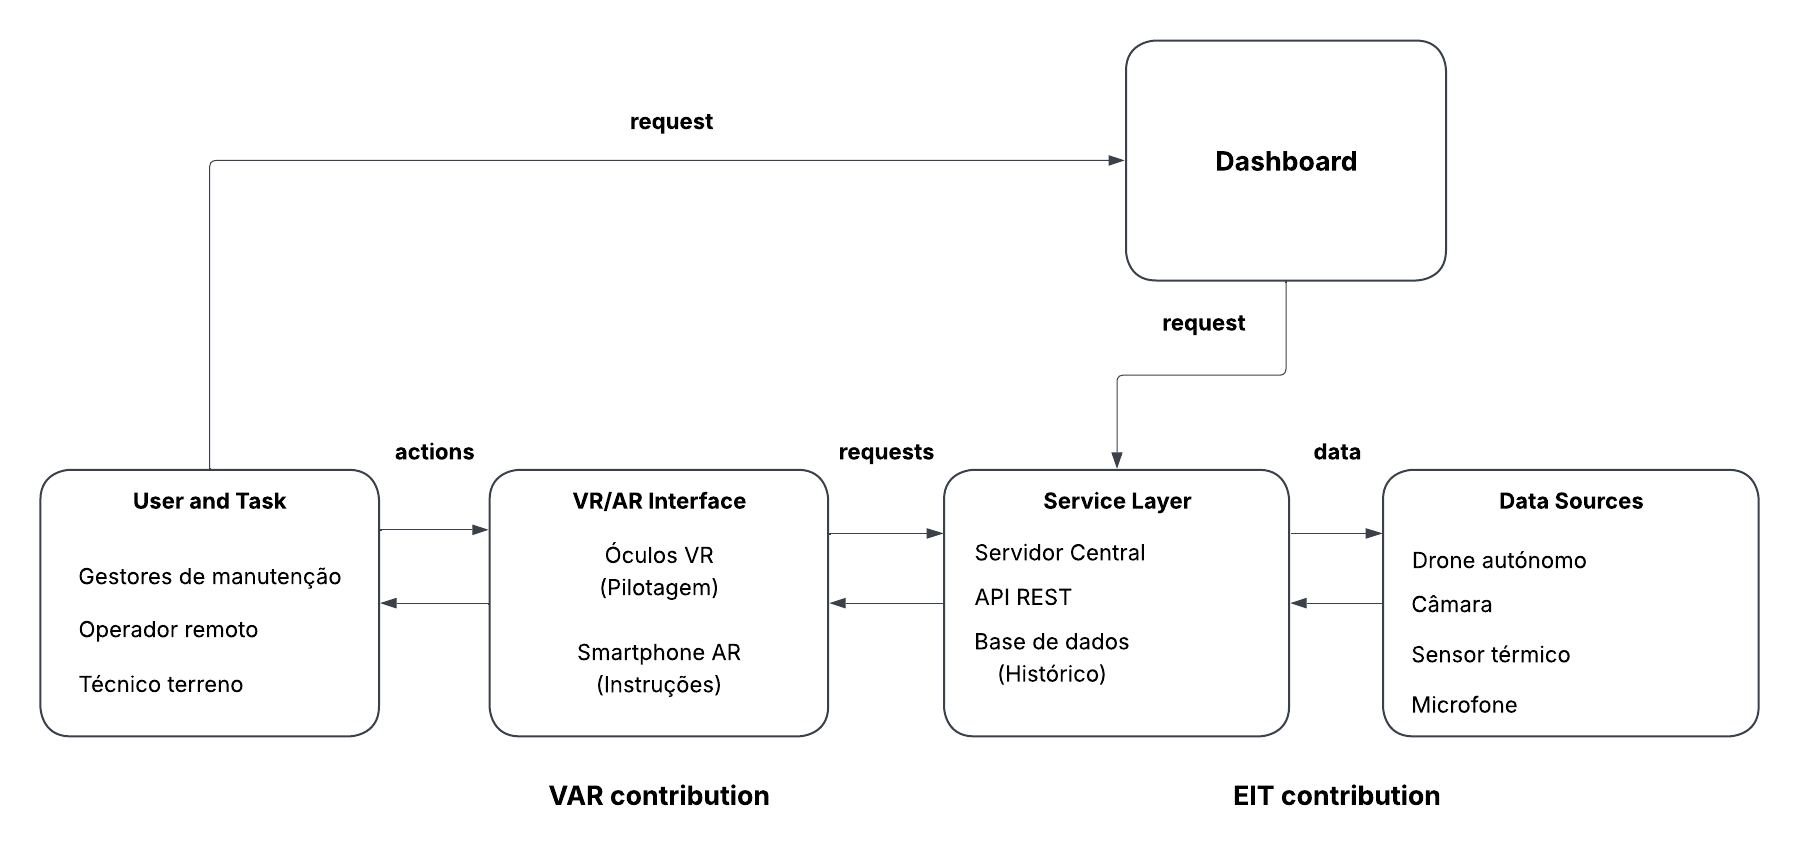
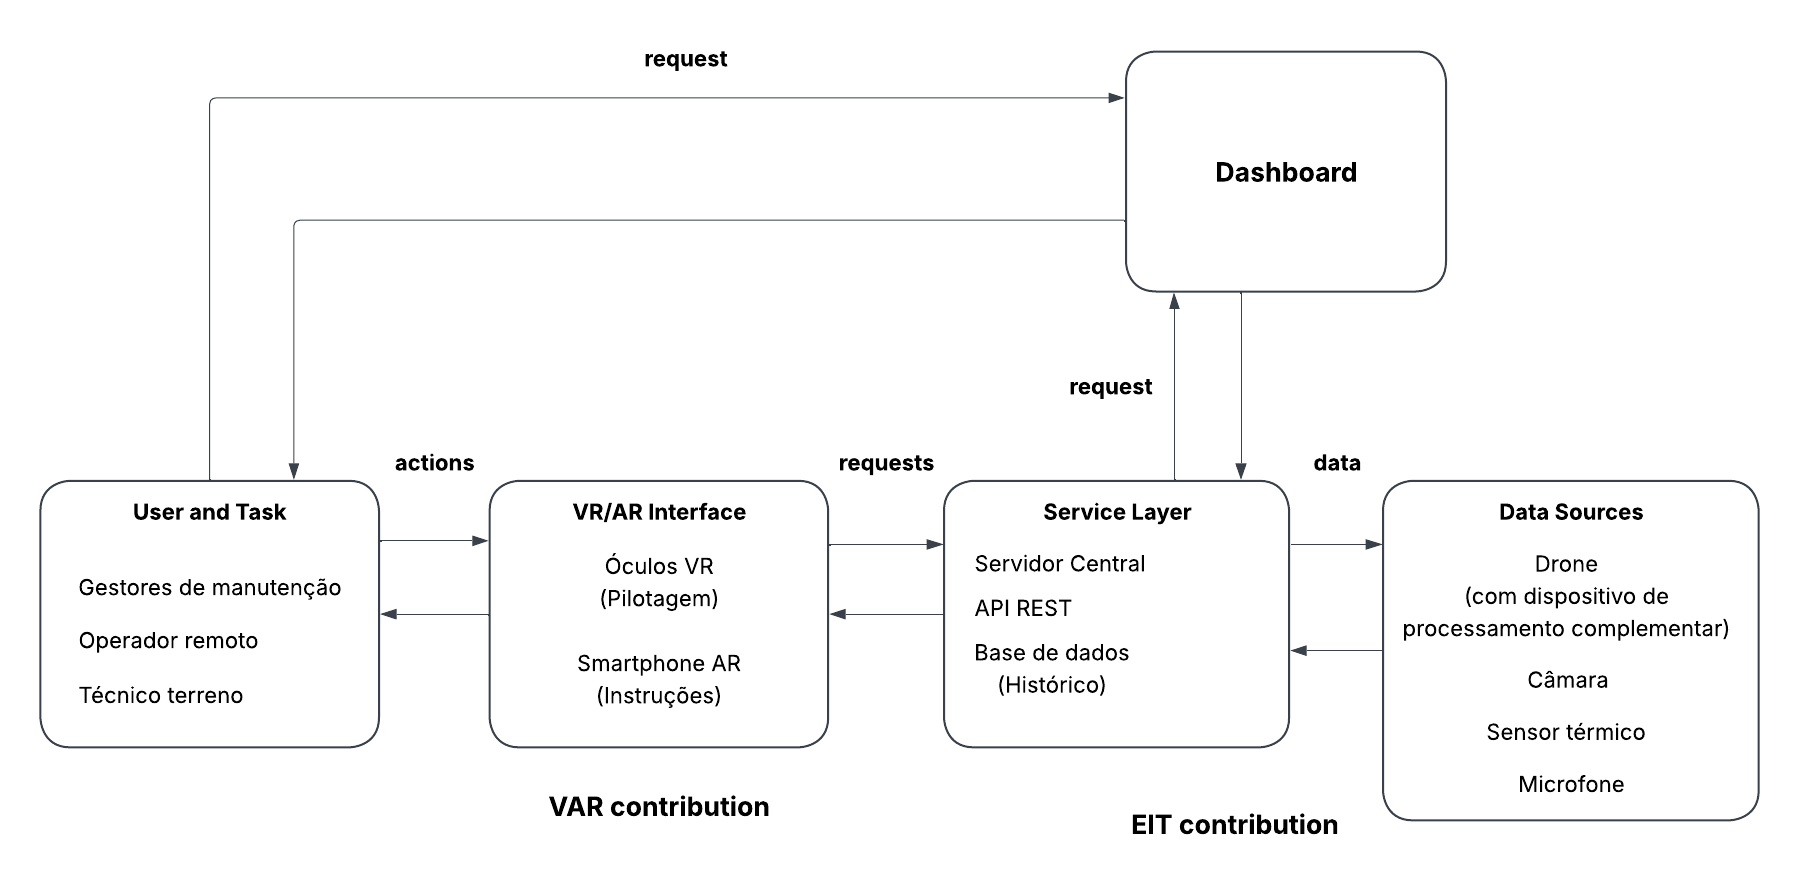
Update from inscrive.io

diff --git a/main.tex b/main.tex
@@ -1,7 +1,3 @@
-% Course adaptation based on IEEEtran bare_conf.tex (Michael Shell).
-% IEEEtran.cls and IEEEtran.bst are supplied unchanged under their original licences.
-% Main file for Overleaf: main.tex. Compiler: pdfLaTeX (XeLaTeX also supported).
-% Replace all instructional prose, sample matrix rows and author placeholders.
 \RequirePackage[T1]{fontenc}
 \documentclass[conference,a4paper]{IEEEtran}
 \usepackage{graphicx}
@@ -37,6 +33,8 @@ Identify where and when you searched, the main search terms and the criteria use
 \section{State of the Art}
 A integração de Veículos Aéreos Não Tripulados (UAVs) e sistemas autónomos tem vindo a intensificar-se com a transição da Indústria 4.0 para a Indústria 5.0, onde a colaboração homem-máquina e a automação sustentável assumem um papel central. Esta evolução tem impulsionado investigações relevantes focadas na aplicação de robótica aérea em ambientes operacionais complexos. Como tal, a presente secção dedica-se a contextualizar o estado da arte e a literatura científica existente em torno desta temática.
 
+%sensores usados, ambientes indoor/outdoor, como a VR é usada nas diferentes abordagens, como a AR é usada
+
 \subsection{Evolução Bibliométrica e Crescimento do Interesse Científico}
 O estudo, desenvolvimento e implementação de drones em ambientes fabris e industriais registaram um crescimento notável nos últimos anos. De acordo com o levantamento bibliométrico conduzido por Mourtzis et al. \cite{Mourtzis02052024}, realizado em novembro de 2022 nas bases de dados \textit{Scopus}, \textit{Google Scholar} e \textit{Web of Science}, foram identificados 329 artigos científicos dedicados à temática. Uma análise de coocorrência de termos com recurso ao software \textit{VOSviewer} revelou que expressões como \textit{drones}, \textit{path planning} e \textit{antennas} figuram entre os principais focos de investigação.
 
@@ -48,10 +46,15 @@ Atualmente, no contexto industrial, os veículos aéreos não tripulados (UAVs) 
 Para além do ambiente estritamente industrial, a literatura reporta a integração bem sucedida de UAVs numa ampla variedade de setores estratégicos, destacando-se:
 \begin{itemize}
     \item \textbf{Setor Energético:} Inspeção de proximidade em infraestruturas e linhas de transporte elétrico através de câmaras térmicas e de alta resolução, permitindo detetar falhas operacionais e danos estruturais de forma mais rápida e segura do que os métodos convencionais \cite{8801830}.
-    \item \textbf{Agricultura de Precisão:} Monitorização aérea com recurso a sensores multiespectrais para análise e mapeamento dos níveis de azoto na vegetação, otimizando a aplicação direcionada de fertilizantes e aumentando o rendimento das culturas \cite{agronomy12091992}.
+    \item \textbf{Agricultura de Precisão:} Monitorização aérea com recurso a sensores multiespectrais para análise e mapeamento dos níveis de azoto na vegetação, otimizando a aplicação direcionada de fertilizantes e aumentando o rendimento das culturas \cite{agronomy12091992}. %o "de precisao" secalhar vai com o crl
     \item \textbf{Construção Civil:} Levantamentos topográficos e mapeamento 3D de estaleiros de obras, facilitando o pré-planeamento logístico, a gestão de riscos e a alocação eficiente de recursos \cite{rs12142329}.
     \item \textbf{Indústria Extrativa e Mineração:} Uso de tecnologia \textit{Light Detection and Ranging} (LiDAR) para gerar modelos topográficos de elevada fidelidade, viabilizando a deteção preventiva de zonas de instabilidade geológica e perigo de desabamento rochoso \cite{rs18091333}.
+    \item \textbf{Saúde:} Utilização de drones para monitorizar indicadores de saúde de pessoas com suspeita de infeção por COVID-19, nomeadamente através da medição da temperatura corporal e da análise da respiração.
+    \item \textbf{Guerra:} Usado para detetar inimigos e armadilhas, assim como ambientes com materiais tóxicos e prejudiciais ao ser humano
+    \item \textbf{Desastres:} Utilizado para localizar escombros e possiveis locais com sobreviventes.\cite{jsan14050098}
 \end{itemize}
+
+%posso adicionar o uso em conflitos armados, desastres e ???ambientes perigosos??? , saude (COVID)... (FEITO) tenho citation... Mas estar a espetar todos os exemplos em lista nao sei se é assim que o prof quer...
 
 Os exemplos apresentados evidenciam a versatilidade dos UAVs para efetuar o levantamento de dados em cenários operacionais distintos. Apesar da diferença significativa em relação ao objetivo de cada projeto apresentado, verifica-se uma abordagem transversal: a recolha de dados importantes através de sensores e a sua posterior disponibilização em dashboards ou outras interfaces de visualização, com o propósito de auxiliar o processo de tomada de decisão.
 
@@ -65,8 +68,14 @@ A Internet of Things (IoT) permite interligar dispositivos físicos através de 
 
 A adoção crescente desta tecnologia tem registado um crescimento de tal forma elevado nos últimos anos, que se estima que o número de \textit{smart devices}, que se situava nos 21 mil milhões no final de 2025, venha a mais do que duplicar, atingindo os 48 mil milhões até 2035 \cite{transforma2026iot}.
 
-\subsection{Monitorização industrial e Dahsboards}
-No contexto industrial, várias soluções já foram desenvolvidas com o objetivo de corrigir determinado problema TODO
+No contexto industrial, a IoT assume a designação Industrial Internet of Things (IIoT), correspondente à aplicação desta tecnologia no âmbito industrial, nomeadamente em equipamentos e processos industriais. A recolha contínua de dados permite acompanhar o estado dos equipamentos, identificar alterações nas suas condições de funcionamento e disponibilizar informação relevante para a análise e o diagnóstico de possíveis anomalias.
+
+
+A recolha de dados através de sensores constitui apenas uma das componentes de um sistema de monitorização industrial. Para que a informação recolhida seja útil aos operadores, é necessário disponibilizá-la de forma organizada e compreensível, permitindo acompanhar o estado dos equipamentos e analisar a evolução dos parâmetros monitorizados.
+
+Neste contexto, os dashboards constituem uma das principais formas de visualização da informação operacional, recorrendo a indicadores, gráficos, históricos e alertas para facilitar a interpretação dos dados. Contudo, a eficácia destas interfaces não depende apenas da quantidade de informação apresentada, mas também da forma como esta é organizada e relacionada com o contexto operacional. Estudos sobre interfaces de monitorização industrial demonstram que diferentes formas de apresentar a mesma informação podem influenciar a compreensão da situação pelos operadores \cite{doi:10.1177/154193121005400411}.
+
+A integração de sensores, sistemas de processamento de dados e interfaces de visualização permite, assim, desenvolver soluções de monitorização que facilitam o acompanhamento dos equipamentos e a identificação de comportamentos que justifiquem uma análise mais aprofundada \cite{reis2024infraestrutura}. Esta informação pode também servir de suporte ao diagnóstico de anomalias, constituindo uma base para soluções de assistência remota que disponibilizem aos operadores e técnicos o contexto necessário para avaliar as situações identificadas.
 
 \subsection{Realidade Virtual e Aumentada na monitorização industrial}
 \subsection{Integração de IoT com VR e AR}
@@ -83,9 +92,6 @@ Use scientific studies for evidence about performance and evaluation, and offici
 \subsection{Comparative synthesis}
 Table~\ref{tab:comparison} illustrates a comparison matrix spanning both columns. Its entries are hypothetical prompts, not published findings. Replace them with evidence from the studies you actually analysed, identifying each source. Select criteria that support a decision in your project. In the text, explain the main patterns, disagreements and gaps revealed by the table; a table alone is not a critical synthesis.
 
-
-% table* spans BOTH columns. Do not remove the asterisk.
-% Two-column floats normally appear at the top of a later page.
 \begin{table*}[!t]
 \caption{Illustrative literature comparison matrix spanning both columns}
 \label{tab:comparison}
@@ -126,11 +132,11 @@ Para apresentar os relatórios de inspeção, dados recolhidos pelo drone e esta
 \subsection{Solução e Arquitetura Conceitual}
 A solução proposta destina-se a gestores e responsáveis de manutenção em ambiente industrial. A ideia consiste em utilizar um drone, que realiza rondas regulares pelo interior de uma fábrica e verifica o estado das máquinas. O objetivo principal é detetar anomalias o mais cedo possível, tirando partido da recolha de dados de múltiplos sensores (câmara, temperatura e ruído) e de uma interface imersiva dupla, combinando realidade virtual para o controlo remoto do drone e a realidade aumentada para o apoio técnico no terreno. O âmbito do sistema foca-se exclusivamente na monitorização e diagnóstico de anomalias no interior das instalações, deixando de fora qualquer tipo de reparação física. \\
 
-No âmbito da unidade curricular Tecnologias Emergentes e Inteligentes, o sistema foca-se na recolha e transmissão contínua dos dados dos sensores no drone, enviando os mesmos para um servidor central através de uma API, que seguem para uma dashboard central que disponibiliza a lista de máquinas, o respetivo estado atual, características técnicas, histórico de avarias e estatísticas de anomalias na fábrica. \\
+No âmbito da unidade curricular Tecnologias Emergentes e Inteligentes, o sistema foca-se na recolha e transmissão contínua de dados dos sensores presentes no drone, enviando os mesmos para um servidor central através de uma API, posteriormente seguindo para uma dashboard central que disponibiliza a lista de máquinas, o respetivo estado atual, as características técnicas, o histórico de avarias e estatísticas de anomalias na fábrica. \\
 
-No que diz respeito à unidade curricular Realidade Virtual e Aumentada, a arquitetura integra duas vertentes complementares, um operador remoto pode pilotar o drone utilizando óculos de realidade virtual e registar anotações digitais sobre a resolução da anomalia em questão e, posteriormente, um técnico no terreno aproxima-se da máquina com um telemóvel em realidade aumentada, visualiza essas mesmas instruções deixadas pelo especialista e executa a intervenção com base nessa ajuda visual. \\
+No que diz respeito à unidade curricular Realidade Virtual e Aumentada, a arquitetura integra duas vertentes complementares: um operador remoto pode pilotar o drone utilizando óculos de realidade virtual e registar anotações digitais sobre a resolução da anomalia em questão e, posteriormente, um técnico no terreno aproxima-se da máquina com um telemóvel com realidade aumentada, visualiza as instruções deixadas pelo especialista e executa a intervenção tendo em conta as mesmas. \\
 
-Referente aos componentes principais, a solução é constituída pelo drone equipado com os referidos sensores, pela dashboard central de monitorização, pelos óculos VR e pelo smartphone com suporte a AR, apoiados por um servidor. A comunicação e as interfaces de integração baseiam-se em protocolos de rede sem fios para a transmissão em tempo real, fluxo de vídeo e dados analíticos. O sistema incorpora um mecanismo de resiliência a falhas de rede, caso occorra uma quebra de conexão, os dados são armazenados localmente no drone, para posterior, sincronização assim que a conectividade for restabelecida. \\
+Referente aos componentes principais, a solução é constituída pelo drone (equipado com sensores e um dispositivo de processamento complementar), pela dashboard central de monitorização, pelos óculos VR e pelo smartphone com suporte a AR, apoiados por um servidor. A comunicação e as interfaces de integração baseiam-se em protocolos de rede sem fios para a transmissão em tempo real, fluxo de vídeo e dados analíticos. O sistema incorpora um mecanismo de resiliência a falhas de rede, em que os dados são armazenados localmente no drone, para posterior sincronização assim que a conectividade for restabelecida. \\
 
 Por fim, a Figura~\ref{fig:solution_architecture} ilustra o diagrama de arquitetura global da solução, evidenciando a integração direta entre a interface imersiva, os serviços de processamento e as respetivas fontes de dados. \\
 
@@ -144,35 +150,33 @@ Por fim, a Figura~\ref{fig:solution_architecture} ilustra o diagrama de arquitet
 A Figura~\ref{fig:solution_architecture} apresenta a arquitetura da solução, integrando os utilizadores, as interfaces imersivas, a camada de serviços e as fontes de dados. O diagrama indica o caminho dos fluxos de informação entre cada bloco, os pontos onde o processamento é executado e a divisão entre as unidades curriculares de Tecnologias Emergentes e Inteligentes e Realidade Virtual e Aumentada.\\
 
 \textbf{Fluxos de Dados e Níveis de processamento}
-As setas bidirecionais e unidirecionais demonstram a comunicação contínua entre os diferentes blocos:
+As setas bidirecionais demonstram a comunicação contínua entre os diferentes blocos:
 \begin{itemize}
-    \item \textbf{User and Task $\rightarrow$ VR/AR Interface / Dashboard:} O operador remoto realiza \textit{actions} (comandos de voo e interações) utilizando a interface VR, enquanto o técnico no terreno visualiza as instruções de apoio em AR. Paralelamente, os gestores enviam requests para a Dashboard para consultar informações.
-    \item \textbf{Dashboard $\rightarrow$ Service Layer:} A \textit{Dashboard} processa a interação do gestor e realiza \textit{requests} ao servidor para carregar a informação estruturada.
-    \item \textbf{VR/AR Interface $\leftrightarrow$ Service Layer:} As aplicações de VR e AR enviam pedidos constantes à API REST para carregar o vídeo e os dados em tempo real.
-    \item \textbf{Service Layer $\leftrightarrow$ Data Sources:} A camada de serviços comunica com o drone, enviando comandos e recebendo \textit{data} bruta (vídeo, imagem térmica e ruído)~\cite{7}. No drone ocorre a computação de \textit{edge} (periferia), processada através de um sistema como o ROS, responsável pela navegação autónoma e empacotamento dos dados dos sensores~\cite{7}.
+    \item \textbf{User and Task $\leftrightarrow$ VR/AR Interface / Dashboard:} O operador remoto realiza \textit{actions} (comandos de voo e interações) utilizando a interface VR, enquanto o técnico no terreno visualiza as instruções de apoio em AR. Paralelamente, os utilizadores enviam requests para a Dashboard para consultar informações.
+    \item \textbf{Dashboard $\leftrightarrow$ Service Layer:} A \textit{Dashboard} realiza \textit{requests} ao servidor para obter e apresentar a informação.
+    \item \textbf{VR/AR Interface $\leftrightarrow$ Service Layer:} As aplicações de VR e AR enviam pedidos constantes à API REST para carregar o vídeo e os dados em tempo real, respetivamente.
+    \item \textbf{Service Layer $\leftrightarrow$ Data Sources:} O Servidor Central utiliza a API REST para enviar comandos ao dispositivo complementar do drone, enquanto este envia de volta o vídeo, os valores de temperatura e de ruído, que o servidor guarda na base de dados para atualizar o histórico.
 \end{itemize}
 
 \textbf{Dependências do Sistema}
 \begin{itemize}
-    \item \textbf{Equipamento:} Drone autónomo equipado com câmara, sensor térmico e microfone, óculos de Realidade Virtual, \textit{smartphones} compatíveis com AR e servidor central.
-    \item \textbf{Software:} Sistema Operativo de Robótica (ROS) integrado no drone, motor de jogo (\textit{Unity} ou \textit{Unreal Engine}) para renderização VR/AR, e \textit{frameworks} de \textit{backend} (ex.: Node.js ou Python) para gerir a API REST e a \textit{Dashboard}~\cite{7}.
-    \item \textbf{Dados e Serviços:} Rede sem fios de baixa latência e alta largura de banda para suportar o \textit{streaming} de vídeo, acoplada a um serviço de base de dados para garantir a integridade do histórico~\cite{7}.
+    \item \textbf{Equipamento:} Drone autónomo equipado com câmara, sensor térmico e microfone, óculos de Realidade Virtual, \textit{smartphones} compatíveis com AR e servidor central(API REST e base de dados para histórico).
+    \item \textbf{Software:} Unity para a aplicação VR, Kotlin com ARCore para a interface AR e Laravel com Vue.js para gerir a API REST e a \textit{Dashboard}.
+    \item \textbf{Dados e Serviços:} Utilização de \textit{WI-FI} 5 para comunicação entre o servidor central, o drone e os óculos VR e a aplicação AR. O servidor central encontra-se ligado por cabo Ethernet, sendo complementado por um serviço de base de dados para garantir a integridade do histórico. 
 \end{itemize}
 
 \textbf{Plano Preliminar de Desenvolvimento}
 \begin{enumerate}
-    \item \textbf{Requisitos e Arquitetura:} Desenho do esquema da base de dados, mapeamento de \textit{endpoints} da API e aquisição de equipamento.
-    \item \textbf{Infraestrutura Central:} Desenvolvimento da \textit{Service Layer} (servidor e API REST) e implementação da interface web da \textit{Dashboard}.
+    \item \textbf{Requisitos e Arquitetura:} Desenho do esquema da base de dados, mapeamento de \textit{endpoints} da API e aquisição de equipamentos.
+  % tipo em esoft de dizer, drone -> enconrtea anomalia -> envia para o server -> envia ao telemovel. Telemovel em modo controlo -> server -> drone -> cenas
+    \item \textbf{Infraestrutura Central:} Desenvolvimento da \textit{Service Layer} (servidor e API REST) e implementação da \textit{Dashboard}.
     \item \textbf{Integração de Edge:} Configuração computacional no drone, calibração dos três sensores (câmara, térmico, microfone) e estabelecimento da comunicação com o servidor.
-    \item \textbf{Prototipagem Imersiva:} Desenvolvimento e integração das aplicações clientes para os óculos VR (focada na pilotagem) e para o \textit{smartphone} AR (focada nas instruções técnicas).
-    \item \textbf{Validação Global:} Testes de carga e latência num ambiente industrial simulado para aferir a robustez da comunicação em tempo real.
+    \item \textbf{Prototipagem Imersiva:} Desenvolvimento e integração das aplicações clientes para os óculos VR (focada na pilotagem e anotação no ambiente) e para o \textit{smartphone} com AR (focada na visualização instruções técnicas).
+    \item \textbf{Validação Global:} Testes de carga e latência num ambiente industrial simulado para aferir a robustez da comunicação em tempo real. Testes para validar a persistência dos dados no ambiente virtual para realidade aumentada, verificando se as anotações permanecem na mesma posição e rotação. Testes para verificar a taxa de falsos positivos e falsos negativos nas deteções das anomalias realizadas pelo modelo. Testar a fiabilidade da recolha de dados pelos sensores do drone, nomeadamente o microfone e o sensor de temperatura.Adicionalmente, avaliar a facilidade de utilização dos diferentes componentes tecnológicos do sistema, incluindo a aplicação móvel, destinada ao controlo e à visualização do drone, os óculos de realidade virtual, utilizados para autenticação, controlo, visualização e criação de anotações, e a dashboard, tendo em conta a facilidade de navegação e de interpretação dos dados apresentados. Testar a fiabilidade da recolha de dados pelos sensores do drone, nomeadamente o microfone e o sensor de temperatura.
 \end{enumerate}
 
 \textbf{Escolhas Tecnológicas Provisórias}
-Os modelos precisos de \textit{hardware} (fabricante do drone e dos óculos VR) e as tecnologias específicas da camada de serviços (tipo de base de dados relacional vs. não relacional e \textit{framework} da API) permanecem opções provisórias. A consolidação destas escolhas está dependente de testes iniciais de latência de rede e da capacidade máxima de carga útil (\textit{payload}) suportada pelos rotores do drone.
-% -------------------- Template --------------------
-
-Replace the example with your own architecture and labelled data flows. Explain the arrows, where computation occurs and which data are exchanged. Identify equipment, software, data and service dependencies. Include a realistic preliminary development plan and indicate which technology choices remain provisional.
+Nesta fase inicial do projeto, algumas tecnologias e componentes continuam em avaliação. Deste modo, o dispositivo móvel para Realidade Aumentada, o dispositivo complementar do drone, a marca dos sensores, a tecnologia específica para a base de dados e o local de alojamento (\textit{host}) do servidor central permanecem em aberto. A consolidação destas escolhas depende
 
 \subsection{Preliminary validation}
 Define two or three evaluation criteria or metrics suited to the project. For each, explain what will be assessed, the proposed test, the resources or participants required, and the intended success criterion or how it will be established. Include an appropriate baseline or alternative when useful. Possible choices include task completion time, task errors, usability, interaction accuracy or end-to-end latency; select only those relevant to your objectives.
@@ -190,7 +194,6 @@ Summarise the review findings, resulting decisions and expected contribution. Re
 \section*{AI Use Declaration}
 Os autores utilizaram o Gemini 3.8 Flash, ChatGPT 5.6 Luna e Claude 5.5 com o propósito de reescrita e formalização estilística de pequenas secções do texto originalmente redigido pelos autores. Todos os outputs foram cuidadosamente revistos, editados sempre que necessário e verificados quanto à precisão técnica e das referências. Os autores mantêm a inteira responsabilidade pelo conteúdo do trabalho submetido.\\
 
-% Bibliography heading is generated by IEEEtran.
 \bibliographystyle{IEEEtran}
 \bibliography{references}
 \end{document}
